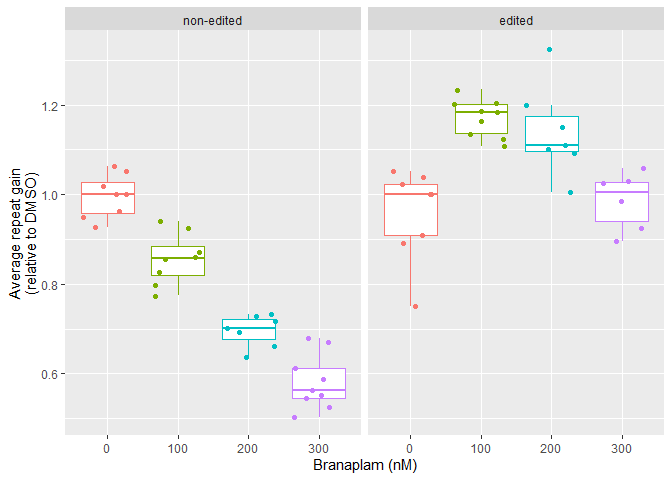
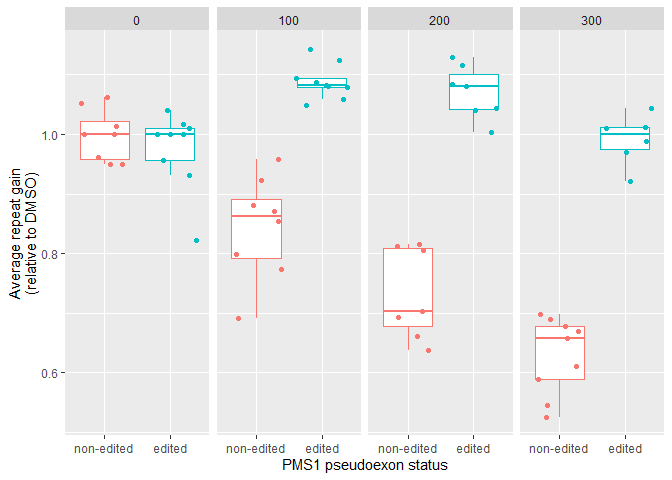
updated readme

diff --git a/README.md b/README.md
@@ -232,13 +232,12 @@ in the case of mice) for the expansion index and other metrics.
 metrics_grouped_df <- calculate_instability_metrics(
       fragments_list = repeats_list,
       grouped = TRUE,
-      peak_threshold = 0.05,
-      window_around_main_peak = c(-40, 40))
+      peak_threshold = 0.05)
 ```
 
 These metrics can then be used to quantify repeat instability. For
 example, this reproduces Figure 7e of [our
-manuscript](https://www.biorxiv.org/content/10.1101/2023.07.25.550489v1).
+manuscript](https://www.nature.com/articles/s41467-024-47485-0).
 
 First, prepare the data for plotting by removing poor quality samples
 and finding the average repeat gain relative to the DMSO group for each
@@ -258,13 +257,12 @@ Then we can plot the instability metrics
 
 ``` r
 ggplot(plot_data,
-       aes(as.factor(treatment), rel_gain,
-           colour = as.factor(treatment))) +
+       aes(genotype, rel_gain, colour = genotype)) +
   geom_boxplot(outlier.shape = NA) +
   geom_jitter() +
-  facet_wrap(vars(genotype)) +
+  facet_wrap(vars(as.factor(treatment)), nrow = 1) +
   labs(y = "Average repeat gain\n(relative to DMSO)",
-       x = "Branaplam (nM)") +
+       x = "PMS1 pseudoexon status") +
   theme(legend.position = "none")
 ```
 
